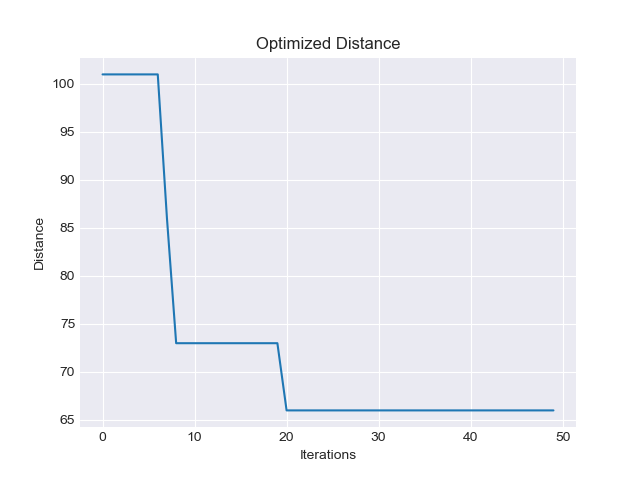
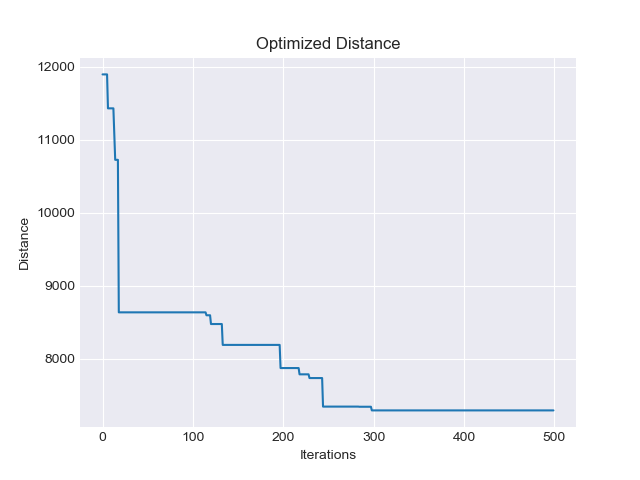
added US tour example

diff --git a/Boltzmann.py b/Boltzmann.py
@@ -22,7 +22,8 @@ class Network():
     between city A and B, which is 10. This matrix is symmetric, since the distance from A to B is the same as the
     distance from B to A, or (0,1) = (1,0).
     """
-    def __init__(self, weight_matrix):
+    def __init__(self, cities, weight_matrix):
+        self.cities = cities
         self.dim = len(weight_matrix)
         self.network = np.array([[0 for i in range(self.dim)]
                     for i in range(self.dim)])
@@ -33,7 +34,7 @@ class Network():
             self.flip(i, j)
 
         self.pairs = list(zip(*np.nonzero(self.network)))
-        self.route = [chr(x[1]+65) for x in self.pairs]
+        self.route = [self.cities[i[1]] for i in self.pairs]
         self.route.append(self.route[0])
         self.weights = weight_matrix
         self.calculate_energy()
@@ -77,7 +78,7 @@ class Network():
         seed = rand.sample(list(range(self.dim)), 2)
         self.network[:, [seed[0], seed[1]]] = self.network[:, [seed[1], seed[0]]]
         self.pairs = tuple(zip(*np.nonzero(self.network)))
-        self.route = [chr(x[1]+65) for x in self.pairs]
+        self.route = [self.cities[i[1]] for i in self.pairs]
         self.route.append(self.route[0])
         self.calculate_energy()
 
@@ -86,8 +87,8 @@ class Boltzmann():
     Boltzmann object stochastically anneals on the Network object to reach an optimized state, minimizing
     the distance between cities.
     """
-    def __init__(self, weight_matrix):
-        self.optimized = Network(weight_matrix)
+    def __init__(self, cities, weight_matrix):
+        self.optimized = Network(cities, weight_matrix)
         self.logs = []
 
     def anneal(self):

diff --git a/examples/Boltzmann_example_2.py b/examples/Boltzmann_example_2.py
@@ -1,0 +1,21 @@
+import Boltzmann as boltz
+import numpy as np
+
+distances = np.array([[   0, 2451,  713, 1018, 1631, 1374, 2408,  213, 2571,  875, 1420, 2145, 1972], # New York
+  [2451,    0, 1745, 1524,  831, 1240,  959, 2596,  403, 1589, 1374,  357,  579], # Los Angeles
+  [ 713, 1745,    0,  355,  920,  803, 1737,  851, 1858,  262,  940, 1453, 1260], # Chicago
+  [1018, 1524,  355,    0,  700,  862, 1395, 1123, 1584,  466, 1056, 1280,  987], # Minneapolis
+  [1631,  831,  920,  700,    0,  663, 1021, 1769,  949,  796,  879,  586,  371], # Denver
+  [1374, 1240,  803,  862,  663,    0, 1681, 1551, 1765,  547,  225,  887,  999], # Dallas
+  [2408,  959, 1737, 1395, 1021, 1681,    0, 2493,  678, 1724, 1891, 1114,  701], # Seattle
+  [ 213, 2596,  851, 1123, 1769, 1551, 2493,    0, 2699, 1038, 1605, 2300, 2099], # Boston
+  [2571,  403, 1858, 1584,  949, 1765,  678, 2699,    0, 1744, 1645,  653,  600], # San Francisco
+  [ 875, 1589,  262,  466,  796,  547, 1724, 1038, 1744,    0,  679, 1272, 1162], # St. Louis
+  [1420, 1374,  940, 1056,  879,  225, 1891, 1605, 1645,  679,    0, 1017, 1200], # Houston
+  [2145,  357, 1453, 1280,  586,  887, 1114, 2300,  653, 1272, 1017,    0,  504], # Phoenix
+  [1972,  579, 1260,  987,  371,  999,  701, 2099,  600, 1162,  1200,  504,   0]]) # Salt Lake City
+cities = ['New York', 'Los Angeles', 'Chicago', 'Minneapolis', 'Denver', 'Dallas', 'Seattle',
+          'Boston', 'San Francisco', 'St. Louis', 'Houston', 'Phoenix', 'Salt Lake City' ]
+
+x = boltz.Boltzmann(cities, distances)
+x.train(500)

diff --git a/examples/Boltzmann_example_1.py b/examples/Boltzmann_example_1.py
@@ -6,6 +6,7 @@ distances = np.array([[0, 10, 20, 5, 18],
                       [20, 15, 0, 25, 16],
                       [5, 32, 25, 0, 35],
                       [18, 10, 16, 35, 0]])
+cities = ['A', 'B', 'C', 'D', 'E']
 
-x = boltz.Boltzmann(distances)
+x = boltz.Boltzmann(cities, distances)
 x.train(50)

diff --git a/README.md b/README.md
@@ -36,27 +36,34 @@ A Boltzmann Machine can be created and trained as follows. It takes a distance m
 cities, and thus, each entry represents the distance between cities. For example, entry (0,1), represents the distance between city A and B, which is 10. This matrix is symmetric, since the distance from A to B is the same as the distance from B to A, or (0,1) = (1,0).
 
 ```python
-from soma import Boltzmann as bolt
+import Boltzmann as boltz
 import numpy as np
 
-# Distance matrix for Programming Assignment
-distances = np.array([[0, 10, 20, 5, 18],
-                      [10, 0, 15, 32, 10],
-                      [20, 15, 0, 25, 16],
-                      [5, 32, 25, 0, 35],
-                      [18, 10, 16, 35, 0]])
+distances = np.array([[   0, 2451,  713, 1018, 1631, 1374, 2408,  213, 2571,  875, 1420, 2145, 1972], # New York
+  [2451,    0, 1745, 1524,  831, 1240,  959, 2596,  403, 1589, 1374,  357,  579], # Los Angeles
+  [ 713, 1745,    0,  355,  920,  803, 1737,  851, 1858,  262,  940, 1453, 1260], # Chicago
+  [1018, 1524,  355,    0,  700,  862, 1395, 1123, 1584,  466, 1056, 1280,  987], # Minneapolis
+  [1631,  831,  920,  700,    0,  663, 1021, 1769,  949,  796,  879,  586,  371], # Denver
+  [1374, 1240,  803,  862,  663,    0, 1681, 1551, 1765,  547,  225,  887,  999], # Dallas
+  [2408,  959, 1737, 1395, 1021, 1681,    0, 2493,  678, 1724, 1891, 1114,  701], # Seattle
+  [ 213, 2596,  851, 1123, 1769, 1551, 2493,    0, 2699, 1038, 1605, 2300, 2099], # Boston
+  [2571,  403, 1858, 1584,  949, 1765,  678, 2699,    0, 1744, 1645,  653,  600], # San Francisco
+  [ 875, 1589,  262,  466,  796,  547, 1724, 1038, 1744,    0,  679, 1272, 1162], # St. Louis
+  [1420, 1374,  940, 1056,  879,  225, 1891, 1605, 1645,  679,    0, 1017, 1200], # Houston
+  [2145,  357, 1453, 1280,  586,  887, 1114, 2300,  653, 1272, 1017,    0,  504], # Phoenix
+  [1972,  579, 1260,  987,  371,  999,  701, 2099,  600, 1162,  1200,  504,   0]]) # Salt Lake City
+cities = ['New York', 'Los Angeles', 'Chicago', 'Minneapolis', 'Denver', 'Dallas', 'Seattle',
+          'Boston', 'San Francisco', 'St. Louis', 'Houston', 'Phoenix', 'Salt Lake City' ]
 
-# Initialize Boltzmann Machine
-x = bolt.Boltzmann(distances)
-# Iterate and anneal for 50 iterations
-x.train(50)
+x = boltz.Boltzmann(cities, distances)
+x.train(500)
 ```
 
 With output:
 ```shell
-Optimized Route: C -> D -> A -> B -> E -> C
-Distance: 66
+Optimized Route: Dallas -> St. Louis -> New York -> Boston -> Chicago -> Minneapolis -> Denver -> Salt Lake City -> Seattle -> San Francisco -> Los Angeles -> Phoenix -> Houston -> Dallas
+Distance: 7293
 ```
 ![](examples/Boltzmann_example.png)
 
-This example is captured in the `examples/Boltzmann_example.py` script
+This example is captured in the `examples/Boltzmann_example_1.py` script
